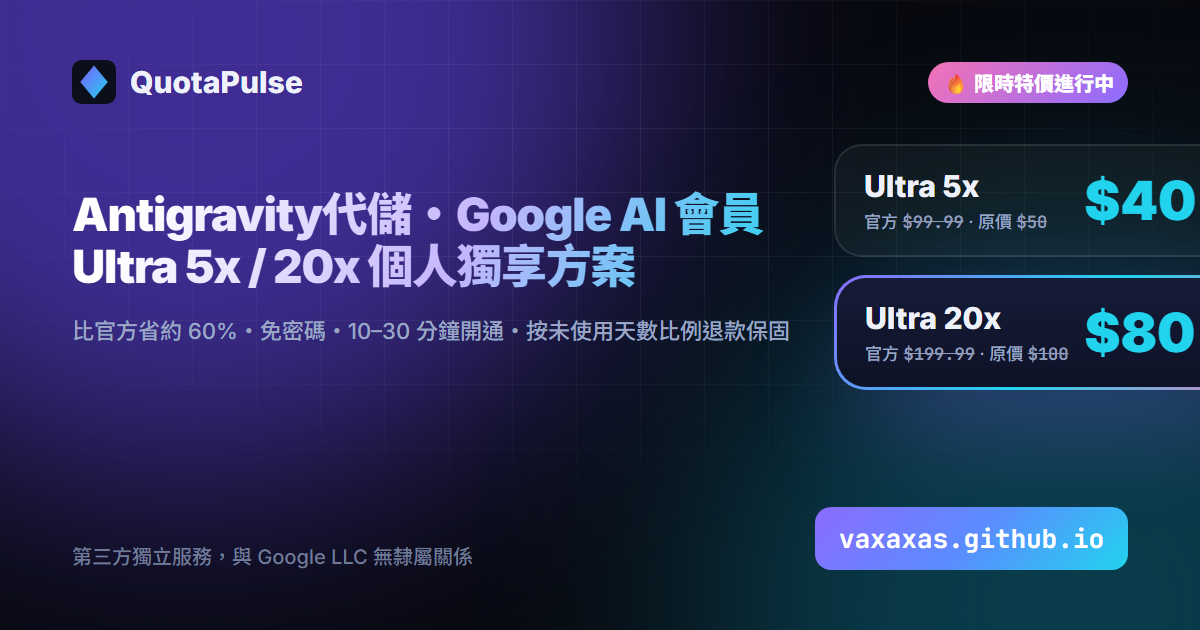
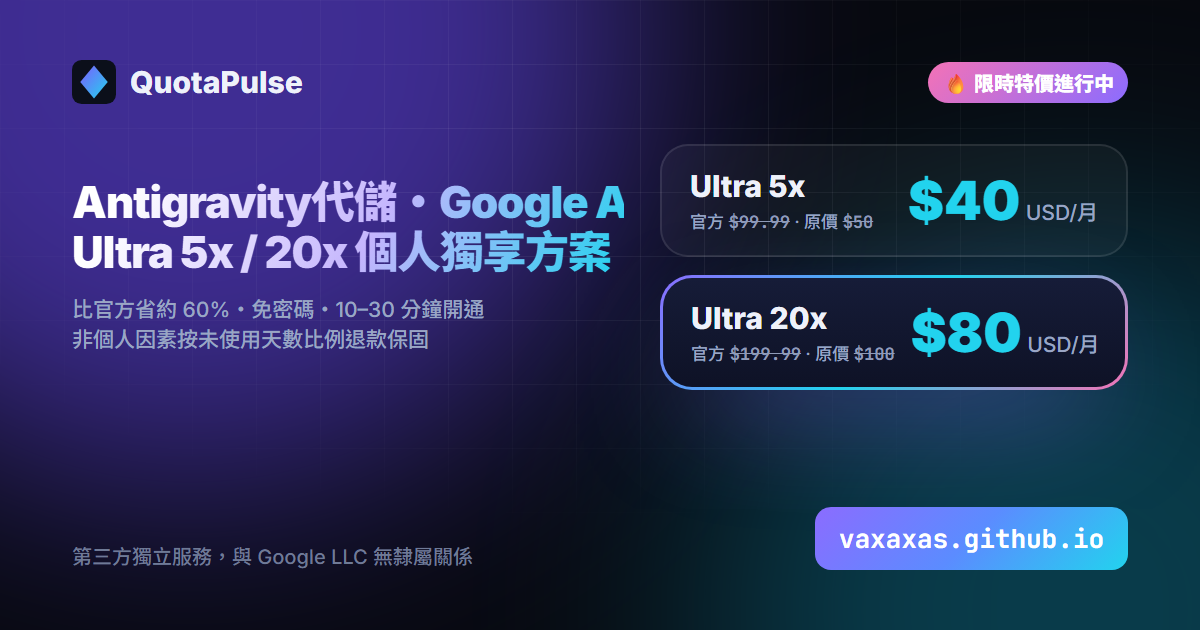
style(social): polish typography and spacing on og, tw-x, and tw-giftcard-trap cards

Changed region(s): [[0.0617, 0.2714, 1.0, 0.6937], [0.5858, 0.2111, 0.7092, 0.2413], [0.925, 0.2111, 1.0, 0.2413]]

diff --git a/social/tw-giftcard-trap/index.html b/social/tw-giftcard-trap/index.html
@@ -1,2 +1,2 @@
 <!DOCTYPE html><html lang="zh-Hant" data-astro-cid-sluak7iu style="--w: 1080px;--h: 1350px;"> <head><meta charset="utf-8"><meta name="robots" content="noindex,nofollow"><title>card: tw-giftcard-trap</title><link rel="preconnect" href="https://fonts.googleapis.com"><link rel="preconnect" href="https://fonts.gstatic.com" crossorigin><link rel="stylesheet" href="https://fonts.googleapis.com/css2?family=Inter:wght@500;700;800;900&family=JetBrains+Mono:wght@500;700&family=Noto+Sans+TC:wght@500;700;900&family=Noto+Sans+SC:wght@500;700;900&display=block"><style>[data-astro-cid-sluak7iu]{box-sizing:border-box;margin:0}html,body{width:var(--w);height:var(--h);overflow:hidden;background:#07090f}body{font-family:Inter,Noto Sans TC,Microsoft JhengHei,sans-serif;color:#eef1fa;-webkit-font-smoothing:antialiased}.sc[data-astro-cid-sluak7iu]{font-family:Inter,Noto Sans SC,Microsoft YaHei,sans-serif}.en[data-astro-cid-sluak7iu]{font-family:Inter,system-ui,sans-serif}.card[data-astro-cid-sluak7iu]{position:relative;width:var(--w);height:var(--h);overflow:hidden;padding:72px;display:flex;flex-direction:column}.bg[data-astro-cid-sluak7iu]:before,.bg[data-astro-cid-sluak7iu]:after{content:"";position:absolute;border-radius:50%;filter:blur(120px);z-index:0}.bg[data-astro-cid-sluak7iu]:before{width:900px;height:900px;background:#6d4bff;opacity:.55;top:-420px;left:-260px}.bg[data-astro-cid-sluak7iu]:after{width:760px;height:760px;background:#0ea5c6;opacity:.32;bottom:-360px;right:-260px}.grid[data-astro-cid-sluak7iu]{position:absolute;inset:0;z-index:0;background-image:linear-gradient(rgba(255,255,255,.06) 1px,transparent 1px),linear-gradient(90deg,rgba(255,255,255,.06) 1px,transparent 1px);background-size:64px 64px;mask-image:radial-gradient(ellipse 80% 70% at 50% 30%,#000 20%,transparent 80%)}.z[data-astro-cid-sluak7iu]{position:relative;z-index:1}.brand[data-astro-cid-sluak7iu]{display:flex;align-items:center;gap:14px;font-weight:800;font-size:30px}.brand[data-astro-cid-sluak7iu] img[data-astro-cid-sluak7iu]{width:44px;height:44px}.tag[data-astro-cid-sluak7iu]{display:inline-flex;align-items:center;gap:10px;padding:10px 20px;border-radius:999px;border:1px solid rgba(255,255,255,.18);background:#ffffff0d;font-weight:700;font-size:26px;color:#cdd5ee}.tag[data-astro-cid-sluak7iu] i[data-astro-cid-sluak7iu]{width:12px;height:12px;border-radius:50%;background:#34d399}.sale-pill[data-astro-cid-sluak7iu]{display:inline-block;padding:6px 14px;border-radius:999px;font-weight:800;font-size:20px;color:#fff;background:linear-gradient(135deg,#f472b6,#8b6cff)}.orig[data-astro-cid-sluak7iu]{color:#8f9bb8;text-decoration:line-through;font-family:JetBrains Mono,monospace;font-weight:600}.cyan[data-astro-cid-sluak7iu]{color:#22d3ee}.grad[data-astro-cid-sluak7iu]{background:linear-gradient(120deg,#fff 10%,#c4b5fd,#22d3ee);-webkit-background-clip:text;background-clip:text;color:transparent}h1[data-astro-cid-sluak7iu]{font-weight:900;letter-spacing:-.03em;line-height:1.12}.mono[data-astro-cid-sluak7iu]{font-family:JetBrains Mono,monospace}.muted[data-astro-cid-sluak7iu]{color:#9aa6c4}.foot[data-astro-cid-sluak7iu]{margin-top:auto;display:flex;justify-content:space-between;align-items:flex-end;font-size:24px}.url[data-astro-cid-sluak7iu]{font-family:JetBrains Mono,monospace;font-weight:700;font-size:30px;padding:14px 24px;border-radius:16px;background:linear-gradient(135deg,#8b6cff,#5b8cff 50%,#22d3ee);color:#fff}.disc[data-astro-cid-sluak7iu]{font-size:20px;color:#6f7a96}.plan[data-astro-cid-sluak7iu]{flex:1;min-width:0;border-radius:32px;padding:40px 42px;border:2px solid rgba(255,255,255,.1);background:linear-gradient(180deg,#ffffff0f,#ffffff05)}.plan[data-astro-cid-sluak7iu].hot{border:3px solid transparent;background:linear-gradient(180deg,#161c38,#0e1226) padding-box,linear-gradient(135deg,#8b6cff,#22d3ee,#f472b6) border-box;box-shadow:0 40px 120px -40px #8b6cffe6}.plan[data-astro-cid-sluak7iu] .n[data-astro-cid-sluak7iu]{font-size:38px;font-weight:800}.plan[data-astro-cid-sluak7iu] .p[data-astro-cid-sluak7iu]{font-size:104px;font-weight:900;letter-spacing:-.05em;line-height:1;margin:12px 0 8px;white-space:nowrap}.plan[data-astro-cid-sluak7iu] .p[data-astro-cid-sluak7iu].p-long{font-size:94px}.plan[data-astro-cid-sluak7iu] .p[data-astro-cid-sluak7iu] small[data-astro-cid-sluak7iu]{font-size:28px;font-weight:600;color:#9aa6c4;letter-spacing:0}.chip[data-astro-cid-sluak7iu]{display:inline-block;padding:8px 18px;border-radius:999px;font-weight:800;font-size:22px;background:linear-gradient(135deg,#f472b6,#8b6cff)}.chip[data-astro-cid-sluak7iu].dim{background:#ffffff1f}.li[data-astro-cid-sluak7iu]{font-size:28px;margin-top:14px;display:flex;gap:14px;align-items:center}.li[data-astro-cid-sluak7iu] b[data-astro-cid-sluak7iu]{color:#34d399}.bar[data-astro-cid-sluak7iu]{height:34px;border-radius:999px;background:#ffffff12;overflow:hidden}.bar[data-astro-cid-sluak7iu] i[data-astro-cid-sluak7iu]{display:block;height:100%;border-radius:999px}.box[data-astro-cid-sluak7iu]{border-radius:28px;border:2px solid rgba(255,255,255,.1);background:#ffffff0a;padding:40px}
-</style></head> <body data-astro-cid-sluak7iu style="--w: 1080px;--h: 1350px;">           <div class="card bg" style="padding:64px 68px; --w: 1080px;--h: 1350px;" data-astro-cid-sluak7iu> <div class="grid" data-astro-cid-sluak7iu style="--w: 1080px;--h: 1350px;"></div> <div class="z" style="display:flex;justify-content:space-between;align-items:center; --w: 1080px;--h: 1350px;" data-astro-cid-sluak7iu> <div class="brand" data-astro-cid-sluak7iu style="--w: 1080px;--h: 1350px;"><img src="/favicon.svg" alt="" data-astro-cid-sluak7iu style="--w: 1080px;--h: 1350px;">QuotaPulse</div> <span class="tag" style="border-color:rgba(251,113,133,.45);color:#fda4af; --w: 1080px;--h: 1350px;" data-astro-cid-sluak7iu><i style="background:#fb7185; --w: 1080px;--h: 1350px;" data-astro-cid-sluak7iu></i>台灣買家防踩坑必看</span> </div> <h1 class="z" style="font-size:74px;margin-top:34px; --w: 1080px;--h: 1350px;" data-astro-cid-sluak7iu>儲值 Google AI 會員<br data-astro-cid-sluak7iu style="--w: 1080px;--h: 1350px;"><span class="grad" data-astro-cid-sluak7iu style="--w: 1080px;--h: 1350px;">別再踩這 2 個大雷！</span></h1> <div class="z" style="display:flex;flex-direction:column;gap:20px;margin-top:34px; --w: 1080px;--h: 1350px;" data-astro-cid-sluak7iu> <div class="box" style="padding:28px 34px;border-color:rgba(251,113,133,.4);background:rgba(251,113,133,.06); --w: 1080px;--h: 1350px;" data-astro-cid-sluak7iu> <div style="display:flex;justify-content:space-between;align-items:center; --w: 1080px;--h: 1350px;" data-astro-cid-sluak7iu> <span style="font-size:34px;font-weight:800;color:#fda4af; --w: 1080px;--h: 1350px;" data-astro-cid-sluak7iu>✗ 地雷 1：跨區買 Google Play 點數卡</span> <span class="mono" style="font-size:22px;color:#fb7185;font-weight:700; --w: 1080px;--h: 1350px;" data-astro-cid-sluak7iu>高機率鎖餘額</span> </div> <p class="muted" style="font-size:24px;margin-top:10px;line-height:1.4; --w: 1080px;--h: 1350px;" data-astro-cid-sluak7iu>台灣 IP 兌換美／日／土區禮物卡極易觸發風控「需要更多資訊才能兌換」，要求當地購買收據，點數直接凍結血本無歸。</p> </div> <div class="box" style="padding:28px 34px;border-color:rgba(251,146,60,.4);background:rgba(251,146,60,.06); --w: 1080px;--h: 1350px;" data-astro-cid-sluak7iu> <div style="display:flex;justify-content:space-between;align-items:center; --w: 1080px;--h: 1350px;" data-astro-cid-sluak7iu> <span style="font-size:34px;font-weight:800;color:#fdba74; --w: 1080px;--h: 1350px;" data-astro-cid-sluak7iu>✗ 地雷 2：拍賣網共享家庭號／交出帳密代刷</span> <span class="mono" style="font-size:22px;color:#fb923c;font-weight:700; --w: 1080px;--h: 1350px;" data-astro-cid-sluak7iu>外洩與踢群風險</span> </div> <p class="muted" style="font-size:24px;margin-top:10px;line-height:1.4; --w: 1080px;--h: 1350px;" data-astro-cid-sluak7iu>多人共用額度互搶、中途翻車找不到人；若交出 Google 主帳號密碼或 2FA，Gmail 與雲端硬碟資安完全裸奔。</p> </div> <div class="plan hot" style="padding:30px 34px;flex:none; --w: 1080px;--h: 1350px;" data-astro-cid-sluak7iu> <div style="display:flex;justify-content:space-between;align-items:center; --w: 1080px;--h: 1350px;" data-astro-cid-sluak7iu> <span style="font-size:35px;font-weight:900;color:#6ee7b7; --w: 1080px;--h: 1350px;" data-astro-cid-sluak7iu>✓ 正解：QuotaPulse 免密碼個人帳號直充</span> <span class="chip" data-astro-cid-sluak7iu style="--w: 1080px;--h: 1350px;">Ultra 5x $40 / 20x $80</span> </div> <p style="font-size:24px;margin-top:10px;line-height:1.45;color:#dbeafe; --w: 1080px;--h: 1350px;" data-astro-cid-sluak7iu>零密碼 · 零 2FA · 零點數卡 · 100% 獨享席位 · 非個人因素依照未使用到的天數比例退款保固。</p> </div> </div> <div class="z foot" data-astro-cid-sluak7iu style="--w: 1080px;--h: 1350px;"><span class="disc" data-astro-cid-sluak7iu style="--w: 1080px;--h: 1350px;">第三方獨立服務，與 Google LLC 無隸屬關係</span><span class="url" data-astro-cid-sluak7iu style="--w: 1080px;--h: 1350px;">vaxaxas.github.io</span></div> </div>  </body></html>
+</style></head> <body data-astro-cid-sluak7iu style="--w: 1080px;--h: 1350px;">           <div class="card bg" style="padding:64px 68px; --w: 1080px;--h: 1350px;" data-astro-cid-sluak7iu> <div class="grid" data-astro-cid-sluak7iu style="--w: 1080px;--h: 1350px;"></div> <div class="z" style="display:flex;justify-content:space-between;align-items:center; --w: 1080px;--h: 1350px;" data-astro-cid-sluak7iu> <div class="brand" data-astro-cid-sluak7iu style="--w: 1080px;--h: 1350px;"><img src="/favicon.svg" alt="" data-astro-cid-sluak7iu style="--w: 1080px;--h: 1350px;">QuotaPulse</div> <span class="tag" style="border-color:rgba(251,113,133,.45);color:#fda4af; --w: 1080px;--h: 1350px;" data-astro-cid-sluak7iu><i style="background:#fb7185; --w: 1080px;--h: 1350px;" data-astro-cid-sluak7iu></i>台灣買家防踩坑必看</span> </div> <h1 class="z" style="font-size:74px;margin-top:34px; --w: 1080px;--h: 1350px;" data-astro-cid-sluak7iu>儲值 Google AI 會員<br data-astro-cid-sluak7iu style="--w: 1080px;--h: 1350px;"><span class="grad" data-astro-cid-sluak7iu style="--w: 1080px;--h: 1350px;">別再踩這 2 個大雷！</span></h1> <div class="z" style="display:flex;flex-direction:column;gap:20px;margin-top:34px; --w: 1080px;--h: 1350px;" data-astro-cid-sluak7iu> <div class="box" style="padding:28px 34px;border-color:rgba(251,113,133,.4);background:rgba(251,113,133,.06); --w: 1080px;--h: 1350px;" data-astro-cid-sluak7iu> <div style="display:flex;justify-content:space-between;align-items:center; --w: 1080px;--h: 1350px;" data-astro-cid-sluak7iu> <span style="font-size:34px;font-weight:800;color:#fda4af; --w: 1080px;--h: 1350px;" data-astro-cid-sluak7iu>✗ 地雷 1：跨區買 Google Play 點數卡</span> <span class="mono" style="font-size:22px;color:#fb7185;font-weight:700; --w: 1080px;--h: 1350px;" data-astro-cid-sluak7iu>高機率鎖餘額</span> </div> <p class="muted" style="font-size:24px;margin-top:10px;line-height:1.4; --w: 1080px;--h: 1350px;" data-astro-cid-sluak7iu>台灣 IP 兌換美／日／土區禮物卡極易觸發風控「需要更多資訊才能兌換」，要求當地購買收據，點數直接凍結血本無歸。</p> </div> <div class="box" style="padding:28px 34px;border-color:rgba(251,146,60,.4);background:rgba(251,146,60,.06); --w: 1080px;--h: 1350px;" data-astro-cid-sluak7iu> <div style="display:flex;justify-content:space-between;align-items:center; --w: 1080px;--h: 1350px;" data-astro-cid-sluak7iu> <span style="font-size:34px;font-weight:800;color:#fdba74; --w: 1080px;--h: 1350px;" data-astro-cid-sluak7iu>✗ 地雷 2：拍賣網共享家庭號／交出帳密代刷</span> <span class="mono" style="font-size:22px;color:#fb923c;font-weight:700; --w: 1080px;--h: 1350px;" data-astro-cid-sluak7iu>外洩與踢群風險</span> </div> <p class="muted" style="font-size:24px;margin-top:10px;line-height:1.4; --w: 1080px;--h: 1350px;" data-astro-cid-sluak7iu>多人共用額度互搶、中途翻車找不到人；若交出 Google 主帳號密碼或 2FA，Gmail 與雲端硬碟資安完全裸奔。</p> </div> <div class="plan hot" style="padding:30px 34px;flex:none; --w: 1080px;--h: 1350px;" data-astro-cid-sluak7iu> <div style="display:flex;justify-content:space-between;align-items:center;gap:16px; --w: 1080px;--h: 1350px;" data-astro-cid-sluak7iu> <span style="font-size:34px;font-weight:900;color:#6ee7b7;white-space:nowrap; --w: 1080px;--h: 1350px;" data-astro-cid-sluak7iu>✓ 正解：QuotaPulse 免密碼直充</span> <span class="chip" style="white-space:nowrap;font-size:21px; --w: 1080px;--h: 1350px;" data-astro-cid-sluak7iu>5x $40 · 20x $80 USD</span> </div> <p style="font-size:24px;margin-top:12px;line-height:1.45;color:#dbeafe; --w: 1080px;--h: 1350px;" data-astro-cid-sluak7iu>零密碼 · 零 2FA · 零點數卡 · 本人 Google 帳號 100% 獨享席位 · 非個人因素依照未使用到的天數比例退款保固。</p> </div> </div> <div class="z foot" data-astro-cid-sluak7iu style="--w: 1080px;--h: 1350px;"><span class="disc" data-astro-cid-sluak7iu style="--w: 1080px;--h: 1350px;">第三方獨立服務，與 Google LLC 無隸屬關係</span><span class="url" data-astro-cid-sluak7iu style="--w: 1080px;--h: 1350px;">vaxaxas.github.io</span></div> </div>  </body></html>

diff --git a/social/og/index.html b/social/og/index.html
@@ -1,2 +1,2 @@
 <!DOCTYPE html><html lang="zh-Hant" data-astro-cid-sluak7iu style="--w: 1200px;--h: 630px;"> <head><meta charset="utf-8"><meta name="robots" content="noindex,nofollow"><title>card: og</title><link rel="preconnect" href="https://fonts.googleapis.com"><link rel="preconnect" href="https://fonts.gstatic.com" crossorigin><link rel="stylesheet" href="https://fonts.googleapis.com/css2?family=Inter:wght@500;700;800;900&family=JetBrains+Mono:wght@500;700&family=Noto+Sans+TC:wght@500;700;900&family=Noto+Sans+SC:wght@500;700;900&display=block"><style>[data-astro-cid-sluak7iu]{box-sizing:border-box;margin:0}html,body{width:var(--w);height:var(--h);overflow:hidden;background:#07090f}body{font-family:Inter,Noto Sans TC,Microsoft JhengHei,sans-serif;color:#eef1fa;-webkit-font-smoothing:antialiased}.sc[data-astro-cid-sluak7iu]{font-family:Inter,Noto Sans SC,Microsoft YaHei,sans-serif}.en[data-astro-cid-sluak7iu]{font-family:Inter,system-ui,sans-serif}.card[data-astro-cid-sluak7iu]{position:relative;width:var(--w);height:var(--h);overflow:hidden;padding:72px;display:flex;flex-direction:column}.bg[data-astro-cid-sluak7iu]:before,.bg[data-astro-cid-sluak7iu]:after{content:"";position:absolute;border-radius:50%;filter:blur(120px);z-index:0}.bg[data-astro-cid-sluak7iu]:before{width:900px;height:900px;background:#6d4bff;opacity:.55;top:-420px;left:-260px}.bg[data-astro-cid-sluak7iu]:after{width:760px;height:760px;background:#0ea5c6;opacity:.32;bottom:-360px;right:-260px}.grid[data-astro-cid-sluak7iu]{position:absolute;inset:0;z-index:0;background-image:linear-gradient(rgba(255,255,255,.06) 1px,transparent 1px),linear-gradient(90deg,rgba(255,255,255,.06) 1px,transparent 1px);background-size:64px 64px;mask-image:radial-gradient(ellipse 80% 70% at 50% 30%,#000 20%,transparent 80%)}.z[data-astro-cid-sluak7iu]{position:relative;z-index:1}.brand[data-astro-cid-sluak7iu]{display:flex;align-items:center;gap:14px;font-weight:800;font-size:30px}.brand[data-astro-cid-sluak7iu] img[data-astro-cid-sluak7iu]{width:44px;height:44px}.tag[data-astro-cid-sluak7iu]{display:inline-flex;align-items:center;gap:10px;padding:10px 20px;border-radius:999px;border:1px solid rgba(255,255,255,.18);background:#ffffff0d;font-weight:700;font-size:26px;color:#cdd5ee}.tag[data-astro-cid-sluak7iu] i[data-astro-cid-sluak7iu]{width:12px;height:12px;border-radius:50%;background:#34d399}.sale-pill[data-astro-cid-sluak7iu]{display:inline-block;padding:6px 14px;border-radius:999px;font-weight:800;font-size:20px;color:#fff;background:linear-gradient(135deg,#f472b6,#8b6cff)}.orig[data-astro-cid-sluak7iu]{color:#8f9bb8;text-decoration:line-through;font-family:JetBrains Mono,monospace;font-weight:600}.cyan[data-astro-cid-sluak7iu]{color:#22d3ee}.grad[data-astro-cid-sluak7iu]{background:linear-gradient(120deg,#fff 10%,#c4b5fd,#22d3ee);-webkit-background-clip:text;background-clip:text;color:transparent}h1[data-astro-cid-sluak7iu]{font-weight:900;letter-spacing:-.03em;line-height:1.12}.mono[data-astro-cid-sluak7iu]{font-family:JetBrains Mono,monospace}.muted[data-astro-cid-sluak7iu]{color:#9aa6c4}.foot[data-astro-cid-sluak7iu]{margin-top:auto;display:flex;justify-content:space-between;align-items:flex-end;font-size:24px}.url[data-astro-cid-sluak7iu]{font-family:JetBrains Mono,monospace;font-weight:700;font-size:30px;padding:14px 24px;border-radius:16px;background:linear-gradient(135deg,#8b6cff,#5b8cff 50%,#22d3ee);color:#fff}.disc[data-astro-cid-sluak7iu]{font-size:20px;color:#6f7a96}.plan[data-astro-cid-sluak7iu]{flex:1;min-width:0;border-radius:32px;padding:40px 42px;border:2px solid rgba(255,255,255,.1);background:linear-gradient(180deg,#ffffff0f,#ffffff05)}.plan[data-astro-cid-sluak7iu].hot{border:3px solid transparent;background:linear-gradient(180deg,#161c38,#0e1226) padding-box,linear-gradient(135deg,#8b6cff,#22d3ee,#f472b6) border-box;box-shadow:0 40px 120px -40px #8b6cffe6}.plan[data-astro-cid-sluak7iu] .n[data-astro-cid-sluak7iu]{font-size:38px;font-weight:800}.plan[data-astro-cid-sluak7iu] .p[data-astro-cid-sluak7iu]{font-size:104px;font-weight:900;letter-spacing:-.05em;line-height:1;margin:12px 0 8px;white-space:nowrap}.plan[data-astro-cid-sluak7iu] .p[data-astro-cid-sluak7iu].p-long{font-size:94px}.plan[data-astro-cid-sluak7iu] .p[data-astro-cid-sluak7iu] small[data-astro-cid-sluak7iu]{font-size:28px;font-weight:600;color:#9aa6c4;letter-spacing:0}.chip[data-astro-cid-sluak7iu]{display:inline-block;padding:8px 18px;border-radius:999px;font-weight:800;font-size:22px;background:linear-gradient(135deg,#f472b6,#8b6cff)}.chip[data-astro-cid-sluak7iu].dim{background:#ffffff1f}.li[data-astro-cid-sluak7iu]{font-size:28px;margin-top:14px;display:flex;gap:14px;align-items:center}.li[data-astro-cid-sluak7iu] b[data-astro-cid-sluak7iu]{color:#34d399}.bar[data-astro-cid-sluak7iu]{height:34px;border-radius:999px;background:#ffffff12;overflow:hidden}.bar[data-astro-cid-sluak7iu] i[data-astro-cid-sluak7iu]{display:block;height:100%;border-radius:999px}.box[data-astro-cid-sluak7iu]{border-radius:28px;border:2px solid rgba(255,255,255,.1);background:#ffffff0a;padding:40px}
-</style></head> <body data-astro-cid-sluak7iu style="--w: 1200px;--h: 630px;"> <div class="card bg" style="padding:60px 72px; --w: 1200px;--h: 630px;" data-astro-cid-sluak7iu> <div class="grid" data-astro-cid-sluak7iu style="--w: 1200px;--h: 630px;"></div> <div class="z" style="display:flex;justify-content:space-between;align-items:center; --w: 1200px;--h: 630px;" data-astro-cid-sluak7iu> <div class="brand" data-astro-cid-sluak7iu style="--w: 1200px;--h: 630px;"><img src="/favicon.svg" alt="" data-astro-cid-sluak7iu style="--w: 1200px;--h: 630px;">QuotaPulse</div> <span class="sale-pill" data-astro-cid-sluak7iu style="--w: 1200px;--h: 630px;">🔥 限時特價進行中</span> </div> <div class="z" style="margin-top:40px;display:flex;gap:44px;align-items:center; --w: 1200px;--h: 630px;" data-astro-cid-sluak7iu> <div style="flex:1.22;white-space:nowrap; --w: 1200px;--h: 630px;" data-astro-cid-sluak7iu> <h1 style="font-size:46px; --w: 1200px;--h: 630px;" class="grad" data-astro-cid-sluak7iu>Antigravity代儲・Google AI 會員<br data-astro-cid-sluak7iu style="--w: 1200px;--h: 630px;">Ultra 5x / 20x 個人獨享方案</h1> <p class="muted" style="font-size:22px;margin-top:20px; --w: 1200px;--h: 630px;" data-astro-cid-sluak7iu>比官方省約 60%・免密碼・10–30 分鐘開通・按未使用天數比例退款保固</p> </div> <div style="flex:1.05;display:flex;flex-direction:column;gap:18px; --w: 1200px;--h: 630px;" data-astro-cid-sluak7iu> <div class="box" style="padding:22px 28px;display:flex;justify-content:space-between;align-items:center;gap:16px; --w: 1200px;--h: 630px;" data-astro-cid-sluak7iu> <div style="white-space:nowrap; --w: 1200px;--h: 630px;" data-astro-cid-sluak7iu><div style="font-size:30px;font-weight:800; --w: 1200px;--h: 630px;" data-astro-cid-sluak7iu>Ultra 5x</div><div class="muted" style="font-size:17px;margin-top:4px; --w: 1200px;--h: 630px;" data-astro-cid-sluak7iu>官方 <span class="orig" data-astro-cid-sluak7iu style="--w: 1200px;--h: 630px;">$99.99</span> · 原價 <span class="orig" data-astro-cid-sluak7iu style="--w: 1200px;--h: 630px;">$50</span></div></div> <div style="text-align:right;white-space:nowrap; --w: 1200px;--h: 630px;" data-astro-cid-sluak7iu><span class="cyan" style="font-size:54px;font-weight:900; --w: 1200px;--h: 630px;" data-astro-cid-sluak7iu>$40</span><small class="muted" style="font-size:21px; --w: 1200px;--h: 630px;" data-astro-cid-sluak7iu> USD/月</small></div> </div> <div class="plan hot" style="padding:22px 28px;display:flex;justify-content:space-between;align-items:center;gap:16px;flex:none; --w: 1200px;--h: 630px;" data-astro-cid-sluak7iu> <div style="white-space:nowrap; --w: 1200px;--h: 630px;" data-astro-cid-sluak7iu><div style="font-size:30px;font-weight:800; --w: 1200px;--h: 630px;" data-astro-cid-sluak7iu>Ultra 20x</div><div class="muted" style="font-size:17px;margin-top:4px; --w: 1200px;--h: 630px;" data-astro-cid-sluak7iu>官方 <span class="orig" data-astro-cid-sluak7iu style="--w: 1200px;--h: 630px;">$199.99</span> · 原價 <span class="orig" data-astro-cid-sluak7iu style="--w: 1200px;--h: 630px;">$100</span></div></div> <div style="text-align:right;white-space:nowrap; --w: 1200px;--h: 630px;" data-astro-cid-sluak7iu><span class="cyan" style="font-size:54px;font-weight:900; --w: 1200px;--h: 630px;" data-astro-cid-sluak7iu>$80</span><small class="muted" style="font-size:21px; --w: 1200px;--h: 630px;" data-astro-cid-sluak7iu> USD/月</small></div> </div> </div> </div> <div class="z foot" data-astro-cid-sluak7iu style="--w: 1200px;--h: 630px;"><span class="disc" data-astro-cid-sluak7iu style="--w: 1200px;--h: 630px;">第三方獨立服務，與 Google LLC 無隸屬關係</span><span class="url" style="font-size:26px; --w: 1200px;--h: 630px;" data-astro-cid-sluak7iu>vaxaxas.github.io</span></div> </div>            </body></html>
+</style></head> <body data-astro-cid-sluak7iu style="--w: 1200px;--h: 630px;"> <div class="card bg" style="padding:60px 72px; --w: 1200px;--h: 630px;" data-astro-cid-sluak7iu> <div class="grid" data-astro-cid-sluak7iu style="--w: 1200px;--h: 630px;"></div> <div class="z" style="display:flex;justify-content:space-between;align-items:center; --w: 1200px;--h: 630px;" data-astro-cid-sluak7iu> <div class="brand" data-astro-cid-sluak7iu style="--w: 1200px;--h: 630px;"><img src="/favicon.svg" alt="" data-astro-cid-sluak7iu style="--w: 1200px;--h: 630px;">QuotaPulse</div> <span class="sale-pill" data-astro-cid-sluak7iu style="--w: 1200px;--h: 630px;">🔥 限時特價進行中</span> </div> <div class="z" style="margin-top:40px;display:flex;gap:36px;align-items:center; --w: 1200px;--h: 630px;" data-astro-cid-sluak7iu> <div style="flex:1.18;min-width:0; --w: 1200px;--h: 630px;" data-astro-cid-sluak7iu> <h1 style="font-size:44px;white-space:nowrap; --w: 1200px;--h: 630px;" class="grad" data-astro-cid-sluak7iu>Antigravity代儲・Google AI 會員<br data-astro-cid-sluak7iu style="--w: 1200px;--h: 630px;">Ultra 5x / 20x 個人獨享方案</h1> <p class="muted" style="font-size:21px;margin-top:18px;line-height:1.45; --w: 1200px;--h: 630px;" data-astro-cid-sluak7iu>比官方省約 60%・免密碼・10–30 分鐘開通<br data-astro-cid-sluak7iu style="--w: 1200px;--h: 630px;">非個人因素按未使用天數比例退款保固</p> </div> <div style="flex:1;min-width:0;display:flex;flex-direction:column;gap:18px; --w: 1200px;--h: 630px;" data-astro-cid-sluak7iu> <div class="box" style="padding:22px 28px;display:flex;justify-content:space-between;align-items:center;gap:16px; --w: 1200px;--h: 630px;" data-astro-cid-sluak7iu> <div style="white-space:nowrap; --w: 1200px;--h: 630px;" data-astro-cid-sluak7iu><div style="font-size:30px;font-weight:800; --w: 1200px;--h: 630px;" data-astro-cid-sluak7iu>Ultra 5x</div><div class="muted" style="font-size:17px;margin-top:4px; --w: 1200px;--h: 630px;" data-astro-cid-sluak7iu>官方 <span class="orig" data-astro-cid-sluak7iu style="--w: 1200px;--h: 630px;">$99.99</span> · 原價 <span class="orig" data-astro-cid-sluak7iu style="--w: 1200px;--h: 630px;">$50</span></div></div> <div style="text-align:right;white-space:nowrap; --w: 1200px;--h: 630px;" data-astro-cid-sluak7iu><span class="cyan" style="font-size:54px;font-weight:900; --w: 1200px;--h: 630px;" data-astro-cid-sluak7iu>$40</span><small class="muted" style="font-size:21px; --w: 1200px;--h: 630px;" data-astro-cid-sluak7iu> USD/月</small></div> </div> <div class="plan hot" style="padding:22px 28px;display:flex;justify-content:space-between;align-items:center;gap:16px;flex:none; --w: 1200px;--h: 630px;" data-astro-cid-sluak7iu> <div style="white-space:nowrap; --w: 1200px;--h: 630px;" data-astro-cid-sluak7iu><div style="font-size:30px;font-weight:800; --w: 1200px;--h: 630px;" data-astro-cid-sluak7iu>Ultra 20x</div><div class="muted" style="font-size:17px;margin-top:4px; --w: 1200px;--h: 630px;" data-astro-cid-sluak7iu>官方 <span class="orig" data-astro-cid-sluak7iu style="--w: 1200px;--h: 630px;">$199.99</span> · 原價 <span class="orig" data-astro-cid-sluak7iu style="--w: 1200px;--h: 630px;">$100</span></div></div> <div style="text-align:right;white-space:nowrap; --w: 1200px;--h: 630px;" data-astro-cid-sluak7iu><span class="cyan" style="font-size:54px;font-weight:900; --w: 1200px;--h: 630px;" data-astro-cid-sluak7iu>$80</span><small class="muted" style="font-size:21px; --w: 1200px;--h: 630px;" data-astro-cid-sluak7iu> USD/月</small></div> </div> </div> </div> <div class="z foot" data-astro-cid-sluak7iu style="--w: 1200px;--h: 630px;"><span class="disc" data-astro-cid-sluak7iu style="--w: 1200px;--h: 630px;">第三方獨立服務，與 Google LLC 無隸屬關係</span><span class="url" style="font-size:26px; --w: 1200px;--h: 630px;" data-astro-cid-sluak7iu>vaxaxas.github.io</span></div> </div>            </body></html>

diff --git a/social/tw-x/index.html b/social/tw-x/index.html
@@ -1,2 +1,2 @@
 <!DOCTYPE html><html lang="zh-Hant" data-astro-cid-sluak7iu style="--w: 1200px;--h: 675px;"> <head><meta charset="utf-8"><meta name="robots" content="noindex,nofollow"><title>card: tw-x</title><link rel="preconnect" href="https://fonts.googleapis.com"><link rel="preconnect" href="https://fonts.gstatic.com" crossorigin><link rel="stylesheet" href="https://fonts.googleapis.com/css2?family=Inter:wght@500;700;800;900&family=JetBrains+Mono:wght@500;700&family=Noto+Sans+TC:wght@500;700;900&family=Noto+Sans+SC:wght@500;700;900&display=block"><style>[data-astro-cid-sluak7iu]{box-sizing:border-box;margin:0}html,body{width:var(--w);height:var(--h);overflow:hidden;background:#07090f}body{font-family:Inter,Noto Sans TC,Microsoft JhengHei,sans-serif;color:#eef1fa;-webkit-font-smoothing:antialiased}.sc[data-astro-cid-sluak7iu]{font-family:Inter,Noto Sans SC,Microsoft YaHei,sans-serif}.en[data-astro-cid-sluak7iu]{font-family:Inter,system-ui,sans-serif}.card[data-astro-cid-sluak7iu]{position:relative;width:var(--w);height:var(--h);overflow:hidden;padding:72px;display:flex;flex-direction:column}.bg[data-astro-cid-sluak7iu]:before,.bg[data-astro-cid-sluak7iu]:after{content:"";position:absolute;border-radius:50%;filter:blur(120px);z-index:0}.bg[data-astro-cid-sluak7iu]:before{width:900px;height:900px;background:#6d4bff;opacity:.55;top:-420px;left:-260px}.bg[data-astro-cid-sluak7iu]:after{width:760px;height:760px;background:#0ea5c6;opacity:.32;bottom:-360px;right:-260px}.grid[data-astro-cid-sluak7iu]{position:absolute;inset:0;z-index:0;background-image:linear-gradient(rgba(255,255,255,.06) 1px,transparent 1px),linear-gradient(90deg,rgba(255,255,255,.06) 1px,transparent 1px);background-size:64px 64px;mask-image:radial-gradient(ellipse 80% 70% at 50% 30%,#000 20%,transparent 80%)}.z[data-astro-cid-sluak7iu]{position:relative;z-index:1}.brand[data-astro-cid-sluak7iu]{display:flex;align-items:center;gap:14px;font-weight:800;font-size:30px}.brand[data-astro-cid-sluak7iu] img[data-astro-cid-sluak7iu]{width:44px;height:44px}.tag[data-astro-cid-sluak7iu]{display:inline-flex;align-items:center;gap:10px;padding:10px 20px;border-radius:999px;border:1px solid rgba(255,255,255,.18);background:#ffffff0d;font-weight:700;font-size:26px;color:#cdd5ee}.tag[data-astro-cid-sluak7iu] i[data-astro-cid-sluak7iu]{width:12px;height:12px;border-radius:50%;background:#34d399}.sale-pill[data-astro-cid-sluak7iu]{display:inline-block;padding:6px 14px;border-radius:999px;font-weight:800;font-size:20px;color:#fff;background:linear-gradient(135deg,#f472b6,#8b6cff)}.orig[data-astro-cid-sluak7iu]{color:#8f9bb8;text-decoration:line-through;font-family:JetBrains Mono,monospace;font-weight:600}.cyan[data-astro-cid-sluak7iu]{color:#22d3ee}.grad[data-astro-cid-sluak7iu]{background:linear-gradient(120deg,#fff 10%,#c4b5fd,#22d3ee);-webkit-background-clip:text;background-clip:text;color:transparent}h1[data-astro-cid-sluak7iu]{font-weight:900;letter-spacing:-.03em;line-height:1.12}.mono[data-astro-cid-sluak7iu]{font-family:JetBrains Mono,monospace}.muted[data-astro-cid-sluak7iu]{color:#9aa6c4}.foot[data-astro-cid-sluak7iu]{margin-top:auto;display:flex;justify-content:space-between;align-items:flex-end;font-size:24px}.url[data-astro-cid-sluak7iu]{font-family:JetBrains Mono,monospace;font-weight:700;font-size:30px;padding:14px 24px;border-radius:16px;background:linear-gradient(135deg,#8b6cff,#5b8cff 50%,#22d3ee);color:#fff}.disc[data-astro-cid-sluak7iu]{font-size:20px;color:#6f7a96}.plan[data-astro-cid-sluak7iu]{flex:1;min-width:0;border-radius:32px;padding:40px 42px;border:2px solid rgba(255,255,255,.1);background:linear-gradient(180deg,#ffffff0f,#ffffff05)}.plan[data-astro-cid-sluak7iu].hot{border:3px solid transparent;background:linear-gradient(180deg,#161c38,#0e1226) padding-box,linear-gradient(135deg,#8b6cff,#22d3ee,#f472b6) border-box;box-shadow:0 40px 120px -40px #8b6cffe6}.plan[data-astro-cid-sluak7iu] .n[data-astro-cid-sluak7iu]{font-size:38px;font-weight:800}.plan[data-astro-cid-sluak7iu] .p[data-astro-cid-sluak7iu]{font-size:104px;font-weight:900;letter-spacing:-.05em;line-height:1;margin:12px 0 8px;white-space:nowrap}.plan[data-astro-cid-sluak7iu] .p[data-astro-cid-sluak7iu].p-long{font-size:94px}.plan[data-astro-cid-sluak7iu] .p[data-astro-cid-sluak7iu] small[data-astro-cid-sluak7iu]{font-size:28px;font-weight:600;color:#9aa6c4;letter-spacing:0}.chip[data-astro-cid-sluak7iu]{display:inline-block;padding:8px 18px;border-radius:999px;font-weight:800;font-size:22px;background:linear-gradient(135deg,#f472b6,#8b6cff)}.chip[data-astro-cid-sluak7iu].dim{background:#ffffff1f}.li[data-astro-cid-sluak7iu]{font-size:28px;margin-top:14px;display:flex;gap:14px;align-items:center}.li[data-astro-cid-sluak7iu] b[data-astro-cid-sluak7iu]{color:#34d399}.bar[data-astro-cid-sluak7iu]{height:34px;border-radius:999px;background:#ffffff12;overflow:hidden}.bar[data-astro-cid-sluak7iu] i[data-astro-cid-sluak7iu]{display:block;height:100%;border-radius:999px}.box[data-astro-cid-sluak7iu]{border-radius:28px;border:2px solid rgba(255,255,255,.1);background:#ffffff0a;padding:40px}
-</style></head> <body data-astro-cid-sluak7iu style="--w: 1200px;--h: 675px;">            <div class="card bg" style="padding:56px 72px; --w: 1200px;--h: 675px;" data-astro-cid-sluak7iu> <div class="grid" data-astro-cid-sluak7iu style="--w: 1200px;--h: 675px;"></div> <div class="z" style="display:flex;justify-content:space-between;align-items:center; --w: 1200px;--h: 675px;" data-astro-cid-sluak7iu> <div class="brand" data-astro-cid-sluak7iu style="--w: 1200px;--h: 675px;"><img src="/favicon.svg" alt="" data-astro-cid-sluak7iu style="--w: 1200px;--h: 675px;">QuotaPulse</div> <span class="sale-pill" data-astro-cid-sluak7iu style="--w: 1200px;--h: 675px;">🇹🇼 台灣開發者・創作者・研究員首選</span> </div> <div class="z" style="margin-top:30px;display:flex;gap:42px;align-items:center; --w: 1200px;--h: 675px;" data-astro-cid-sluak7iu> <div style="flex:1.25; --w: 1200px;--h: 675px;" data-astro-cid-sluak7iu> <h1 style="font-size:56px;line-height:1.14; --w: 1200px;--h: 675px;" class="grad" data-astro-cid-sluak7iu>Google AI 會員 Ultra<br data-astro-cid-sluak7iu style="--w: 1200px;--h: 675px;">Antigravity 免密碼直充</h1> <p class="muted" style="font-size:24px;margin-top:18px;line-height:1.5; --w: 1200px;--h: 675px;" data-astro-cid-sluak7iu>免跨區禮物卡・免給帳密・充入本人 Google 帳號<br data-astro-cid-sluak7iu style="--w: 1200px;--h: 675px;">非個人因素按未使用天數比例退款保固</p> </div> <div style="flex:1;display:flex;flex-direction:column;gap:18px; --w: 1200px;--h: 675px;" data-astro-cid-sluak7iu> <div class="box" style="padding:20px 28px;display:flex;justify-content:space-between;align-items:center; --w: 1200px;--h: 675px;" data-astro-cid-sluak7iu> <div data-astro-cid-sluak7iu style="--w: 1200px;--h: 675px;"><div style="font-size:30px;font-weight:800; --w: 1200px;--h: 675px;" data-astro-cid-sluak7iu>Ultra 5x</div><div class="muted" style="font-size:18px; --w: 1200px;--h: 675px;" data-astro-cid-sluak7iu>官方 <span class="orig" data-astro-cid-sluak7iu style="--w: 1200px;--h: 675px;">NT$3,300</span></div></div> <div style="text-align:right; --w: 1200px;--h: 675px;" data-astro-cid-sluak7iu><span class="cyan" style="font-size:52px;font-weight:900; --w: 1200px;--h: 675px;" data-astro-cid-sluak7iu>$40</span><small class="muted" style="font-size:20px; --w: 1200px;--h: 675px;" data-astro-cid-sluak7iu> USD/月</small></div> </div> <div class="plan hot" style="padding:20px 28px;display:flex;justify-content:space-between;align-items:center;flex:none; --w: 1200px;--h: 675px;" data-astro-cid-sluak7iu> <div data-astro-cid-sluak7iu style="--w: 1200px;--h: 675px;"><div style="font-size:30px;font-weight:800; --w: 1200px;--h: 675px;" data-astro-cid-sluak7iu>Ultra 20x</div><div class="muted" style="font-size:18px; --w: 1200px;--h: 675px;" data-astro-cid-sluak7iu>官方 <span class="orig" data-astro-cid-sluak7iu style="--w: 1200px;--h: 675px;">NT$6,500</span> · 4倍額度</div></div> <div style="text-align:right; --w: 1200px;--h: 675px;" data-astro-cid-sluak7iu><span class="cyan" style="font-size:52px;font-weight:900; --w: 1200px;--h: 675px;" data-astro-cid-sluak7iu>$80</span><small class="muted" style="font-size:20px; --w: 1200px;--h: 675px;" data-astro-cid-sluak7iu> USD/月</small></div> </div> </div> </div> <div class="z foot" data-astro-cid-sluak7iu style="--w: 1200px;--h: 675px;"><span class="disc" data-astro-cid-sluak7iu style="--w: 1200px;--h: 675px;">第三方獨立服務，與 Google LLC 無隸屬關係</span><span class="url" style="font-size:26px; --w: 1200px;--h: 675px;" data-astro-cid-sluak7iu>vaxaxas.github.io</span></div> </div> </body></html>
+</style></head> <body data-astro-cid-sluak7iu style="--w: 1200px;--h: 675px;">            <div class="card bg" style="padding:56px 68px; --w: 1200px;--h: 675px;" data-astro-cid-sluak7iu> <div class="grid" data-astro-cid-sluak7iu style="--w: 1200px;--h: 675px;"></div> <div class="z" style="display:flex;justify-content:space-between;align-items:center; --w: 1200px;--h: 675px;" data-astro-cid-sluak7iu> <div class="brand" data-astro-cid-sluak7iu style="--w: 1200px;--h: 675px;"><img src="/favicon.svg" alt="" data-astro-cid-sluak7iu style="--w: 1200px;--h: 675px;">QuotaPulse</div> <span class="sale-pill" data-astro-cid-sluak7iu style="--w: 1200px;--h: 675px;">台灣開發者・創作者・研究員首選</span> </div> <div class="z" style="margin-top:34px;display:flex;gap:36px;align-items:center; --w: 1200px;--h: 675px;" data-astro-cid-sluak7iu> <div style="flex:1.18;min-width:0; --w: 1200px;--h: 675px;" data-astro-cid-sluak7iu> <h1 style="font-size:50px;line-height:1.18;white-space:nowrap; --w: 1200px;--h: 675px;" class="grad" data-astro-cid-sluak7iu>Google AI 會員 Ultra<br data-astro-cid-sluak7iu style="--w: 1200px;--h: 675px;">Antigravity 免密碼直充</h1> <p class="muted" style="font-size:23px;margin-top:18px;line-height:1.55; --w: 1200px;--h: 675px;" data-astro-cid-sluak7iu>免跨區禮物卡・免給帳密・充入本人 Google 帳號<br data-astro-cid-sluak7iu style="--w: 1200px;--h: 675px;">非個人因素按未使用天數比例退款保固</p> </div> <div style="flex:1.02;min-width:0;display:flex;flex-direction:column;gap:18px; --w: 1200px;--h: 675px;" data-astro-cid-sluak7iu> <div class="box" style="padding:20px 26px;display:flex;justify-content:space-between;align-items:center;gap:14px; --w: 1200px;--h: 675px;" data-astro-cid-sluak7iu> <div style="white-space:nowrap; --w: 1200px;--h: 675px;" data-astro-cid-sluak7iu><div style="font-size:29px;font-weight:800; --w: 1200px;--h: 675px;" data-astro-cid-sluak7iu>Ultra 5x</div><div class="muted" style="font-size:18px;margin-top:2px; --w: 1200px;--h: 675px;" data-astro-cid-sluak7iu>官方 <span class="orig" data-astro-cid-sluak7iu style="--w: 1200px;--h: 675px;">NT$3,300</span></div></div> <div style="text-align:right;white-space:nowrap; --w: 1200px;--h: 675px;" data-astro-cid-sluak7iu><span class="cyan" style="font-size:50px;font-weight:900; --w: 1200px;--h: 675px;" data-astro-cid-sluak7iu>$40</span><small class="muted" style="font-size:19px; --w: 1200px;--h: 675px;" data-astro-cid-sluak7iu> USD/月</small></div> </div> <div class="plan hot" style="padding:20px 26px;display:flex;justify-content:space-between;align-items:center;gap:14px;flex:none; --w: 1200px;--h: 675px;" data-astro-cid-sluak7iu> <div style="white-space:nowrap; --w: 1200px;--h: 675px;" data-astro-cid-sluak7iu><div style="font-size:29px;font-weight:800; --w: 1200px;--h: 675px;" data-astro-cid-sluak7iu>Ultra 20x</div><div class="muted" style="font-size:18px;margin-top:2px; --w: 1200px;--h: 675px;" data-astro-cid-sluak7iu>官方 <span class="orig" data-astro-cid-sluak7iu style="--w: 1200px;--h: 675px;">NT$6,500</span> · 4倍額度</div></div> <div style="text-align:right;white-space:nowrap; --w: 1200px;--h: 675px;" data-astro-cid-sluak7iu><span class="cyan" style="font-size:50px;font-weight:900; --w: 1200px;--h: 675px;" data-astro-cid-sluak7iu>$80</span><small class="muted" style="font-size:19px; --w: 1200px;--h: 675px;" data-astro-cid-sluak7iu> USD/月</small></div> </div> </div> </div> <div class="z foot" data-astro-cid-sluak7iu style="--w: 1200px;--h: 675px;"><span class="disc" data-astro-cid-sluak7iu style="--w: 1200px;--h: 675px;">第三方獨立服務，與 Google LLC 無隸屬關係</span><span class="url" style="font-size:26px; --w: 1200px;--h: 675px;" data-astro-cid-sluak7iu>vaxaxas.github.io</span></div> </div> </body></html>
